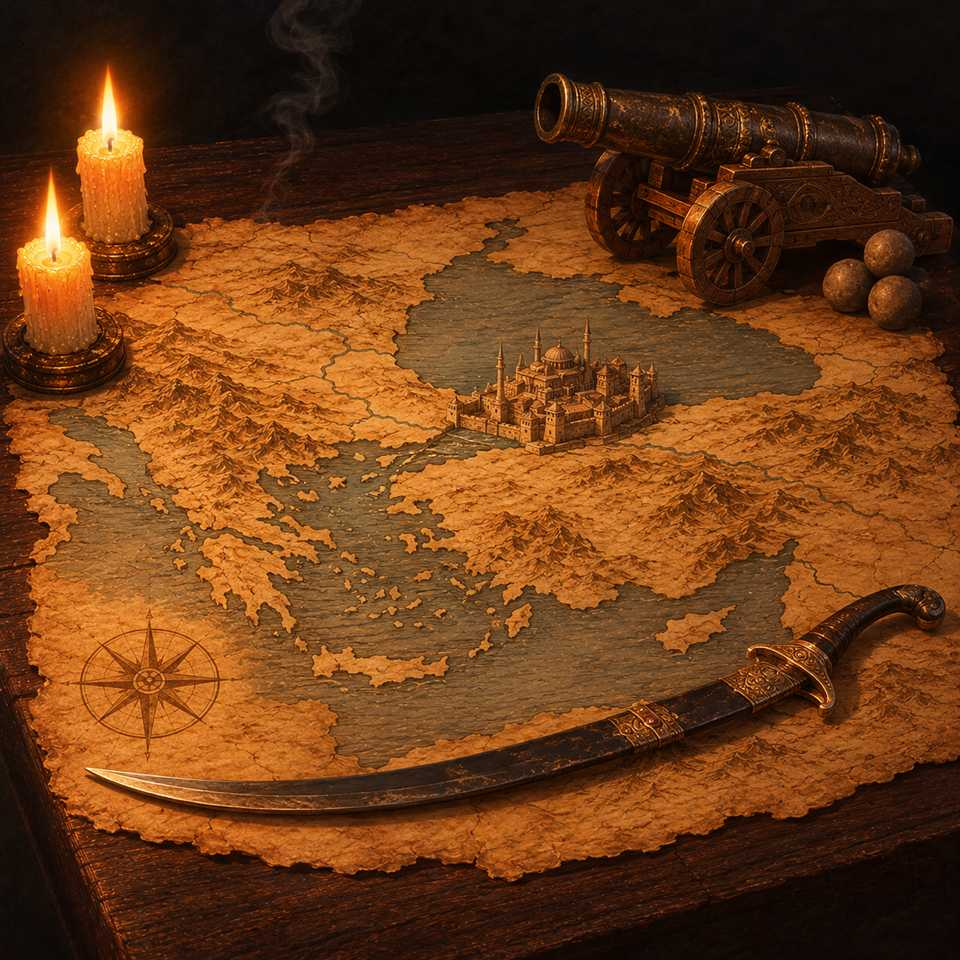
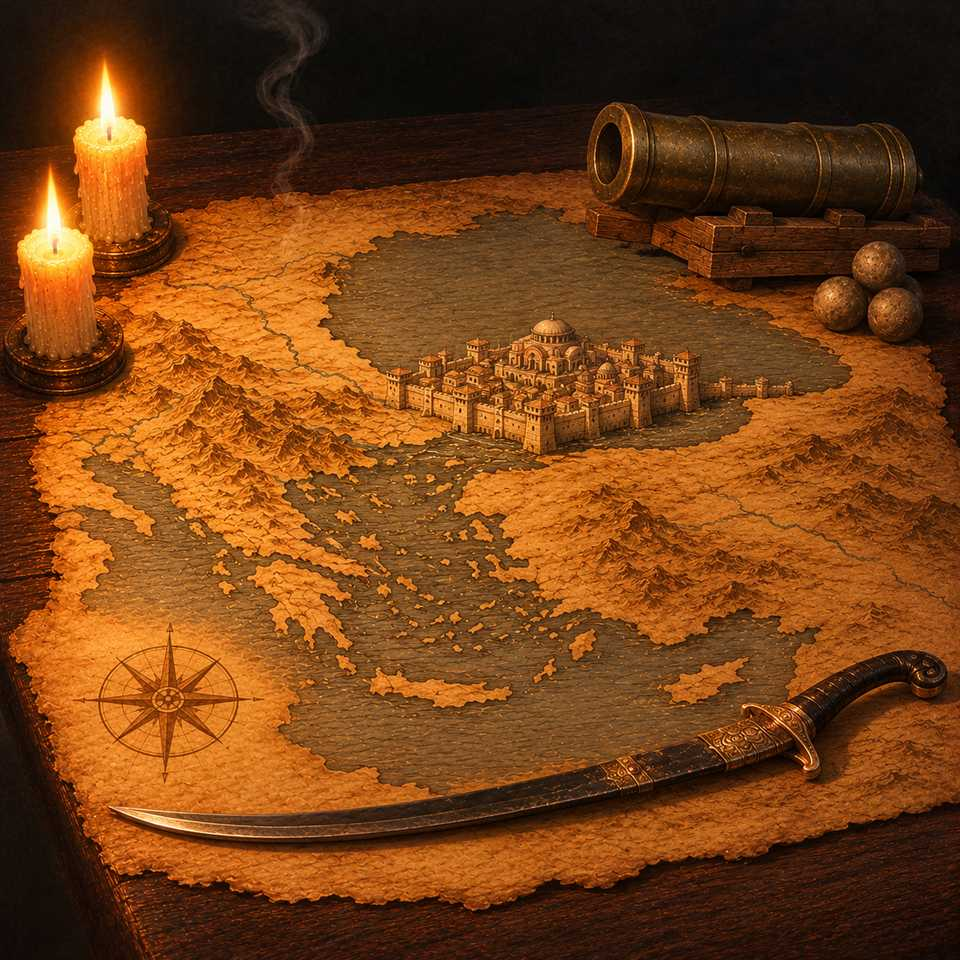
Songhai has a picture, and Konstantinopel its walls and bombard of 1453

diff --git a/js/togter.js b/js/togter.js
@@ -21,7 +21,7 @@ export const TOGTER = [
   { map: 'genghis', opponents: 3, home: 'mo', goal: ['xx', 'hb', 'tx'], bonus: 0.65, art: 'assets/togter/genghis.jpg' },
   { map: 'inka', opponents: 3, home: 'hd', goal: ['ch', 'co', 'cm'], bonus: 0.5, art: 'assets/togter/inka.jpg' },
   { map: 'constantinople', opponents: 3, home: 'an', goal: ['tr', 'gr', 'sr'], bonus: 0.5, art: 'assets/togter/constantinople.jpg' },
-  { map: 'songhai', opponents: 3, home: 'so', goal: ['nb', 'nd'], plusOne: true, bonus: 0.6 },
+  { map: 'songhai', opponents: 3, home: 'so', goal: ['nb', 'nd'], plusOne: true, bonus: 0.6, art: 'assets/togter/songhai.jpg' },
   { map: 'akbar', opponents: 3, home: 'pj', goal: ['hi', 'rj', 'gu'], bonus: 0.6 },
   { map: 'japan', opponents: 3, home: 'to', goal: ['to', 'ks', 'ki'], bonus: 0.5 },
   { map: 'napoleon', opponents: 3, home: 'fr', goal: ['fr', 'os', 'pr'], bonus: 0.6 },

diff --git a/LICENSES.md b/LICENSES.md
@@ -8,7 +8,7 @@ Alt i spillet er lavet til spillet, undtagen:
 | `assets/paper.jpg` | Papirtekstur (Paper 003, farvebilledet) | [ambientCG](https://ambientcg.com/view?id=Paper003) | [CC0](https://creativecommons.org/publicdomain/zero/1.0/) |
 | `assets/music/theme.mp3` | Temamusikken "Rulers of the Map – Theme" | Lavet med AI hos [Abracadabrax](https://abracadabrax.app), model "Abracadabrax Instrumental" (Stable Audio), 1/11-2026 | Vores til kommerciel brug: modellen er mærket "cleared for commercial use", og [vilkårene](https://abracadabrax.app/terms) giver ejerskab og kommerciel brug (læst 1/11-2026) |
 | `assets/togter/italy.jpg`, `alexander.jpg`, `vikings.jpg` | Billederne bag togternes årstal (Rom, Alexander, Vikingetogtet) | Lavet med AI hos Abracadabrax, model Seedream 4.5 (ByteDance), 1/11-2026, gjort mindre til 960 px, AI'ens opdigtede ord visket ud | Som musikken: ejerskab og kommerciel brug efter Abracadabrax' vilkår og FAQ (læst 1/11-2026) |
-| `assets/togter/liberation.jpg`, `west.jpg`, `england.jpg`, `threekingdoms.jpg`, `genghis.jpg`, `inka.jpg`, `constantinople.jpg` | Billederne bag de øvrige togters årstal (Befrielsen, Vesten, England, De tre kongeriger, Djengis Khan, Inka, Konstantinopel) | Lavet med AI i ChatGPT (OpenAI) med vores billeder som stilforlæg, 2.–4/11-2026, gjort mindre til 960 px, AI'ens opdigtede ord visket ud, hvor der var nogen | Vores: OpenAIs [vilkår for Europa](https://openai.com/policies/eu-terms-of-use/) giver brugeren ejerskab til det, der laves, også kommercielt (læst 2/11-2026) |
+| `assets/togter/liberation.jpg`, `west.jpg`, `england.jpg`, `threekingdoms.jpg`, `genghis.jpg`, `inka.jpg`, `constantinople.jpg`, `songhai.jpg` | Billederne bag de øvrige togters årstal (Befrielsen, Vesten, England, De tre kongeriger, Djengis Khan, Inka, Konstantinopel, Songhai) | Lavet med AI i ChatGPT (OpenAI) med vores billeder som stilforlæg, 2.–5/11-2026, gjort mindre til 960 px, AI'ens opdigtede ord visket ud, hvor der var nogen | Vores: OpenAIs [vilkår for Europa](https://openai.com/policies/eu-terms-of-use/) giver brugeren ejerskab til det, der laves, også kommercielt (læst 2/11-2026) |
 
 Kortet, kystlinjerne, kortsymbolerne og lydene er tegnet og lavet i koden.
 
